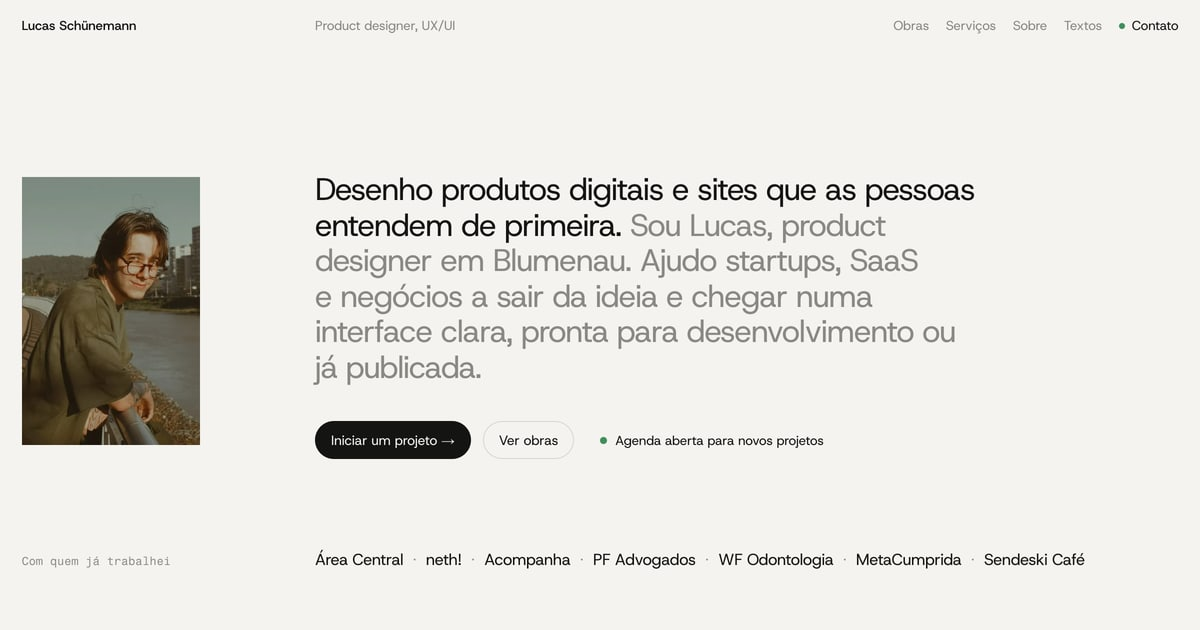
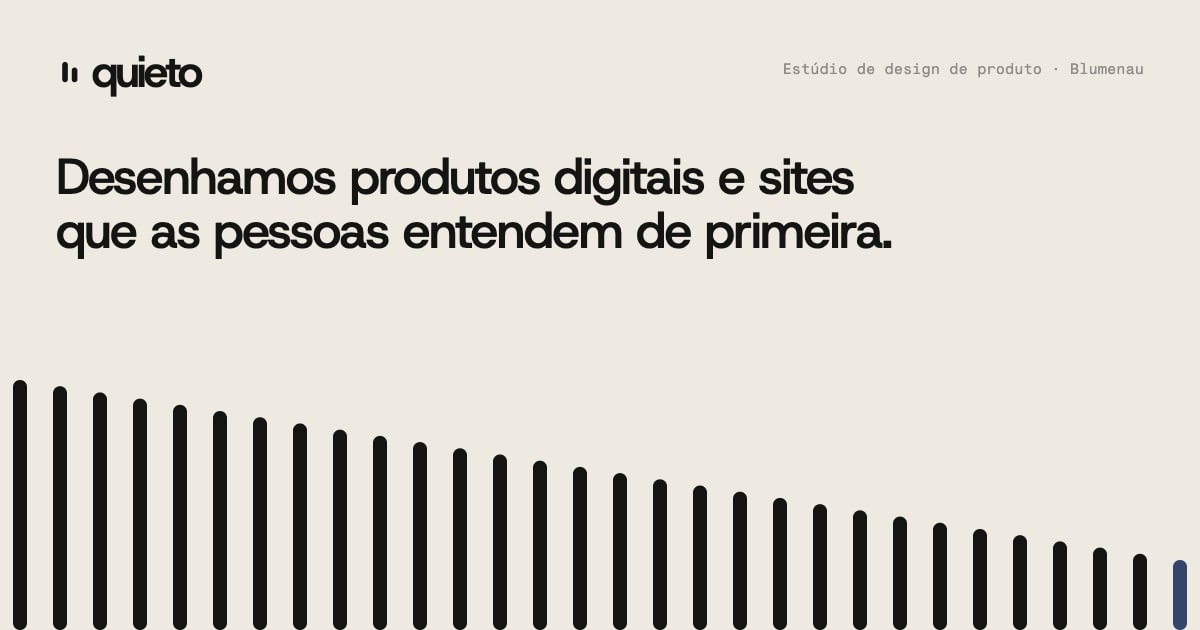
Imagem de compartilhamento da Quieto
- og.jpg novo: logo, frase da abertura e campo de barras com a última em índigo
- og.mjs monta a imagem direto, sem precisar do dev server

diff --git a/tools/capture/README.md b/tools/capture/README.md
@@ -13,7 +13,7 @@ Scripts Node (ESM) que tiram capturas de sites no ar e montam as pranchas das ob
 | `sheet.mjs` | folhas de contato (`sheet-<slug>.jpg`) para escolher as melhores capturas |
 | `compose.mjs [slug...]` | monta as pranchas em passe-partout e grava em `src/assets/work/`; com slugs, só as dessas obras |
 | `video.mjs <slug> <url> <nome>` | vídeo curto de rolagem no celular (ou no desktop, com `--desk`), no mesmo passe-partout; `--from`/`--max` limitam o trecho. Grava `<nome>.mp4` e o pôster `<nome>.jpg` em `src/assets/work/<slug>/` |
-| `og.mjs` | gera `public/og.jpg` a partir da home (precisa do dev server ligado) |
+| `og.mjs` | gera `public/og.jpg`: logo, frase da abertura e campo de barras (não precisa do dev server) |
 
 Fluxo: `node capture.mjs <slug> <url>` → `node sheet.mjs` → olhar as folhas → ajustar e rodar `node compose.mjs`.
 
